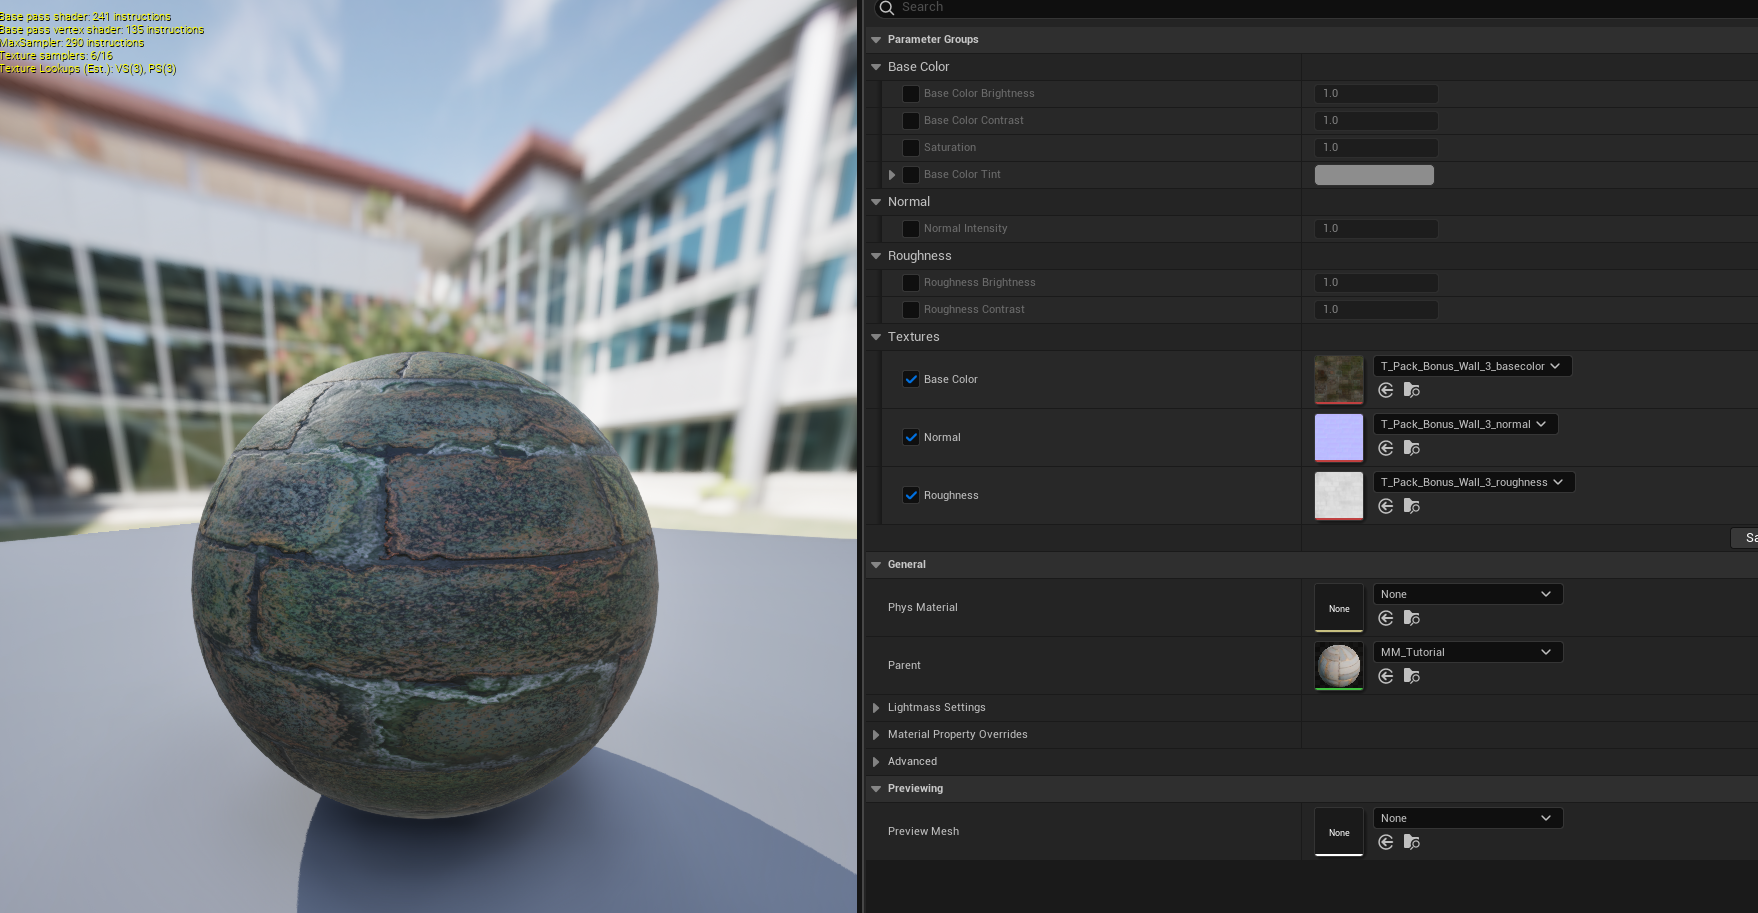
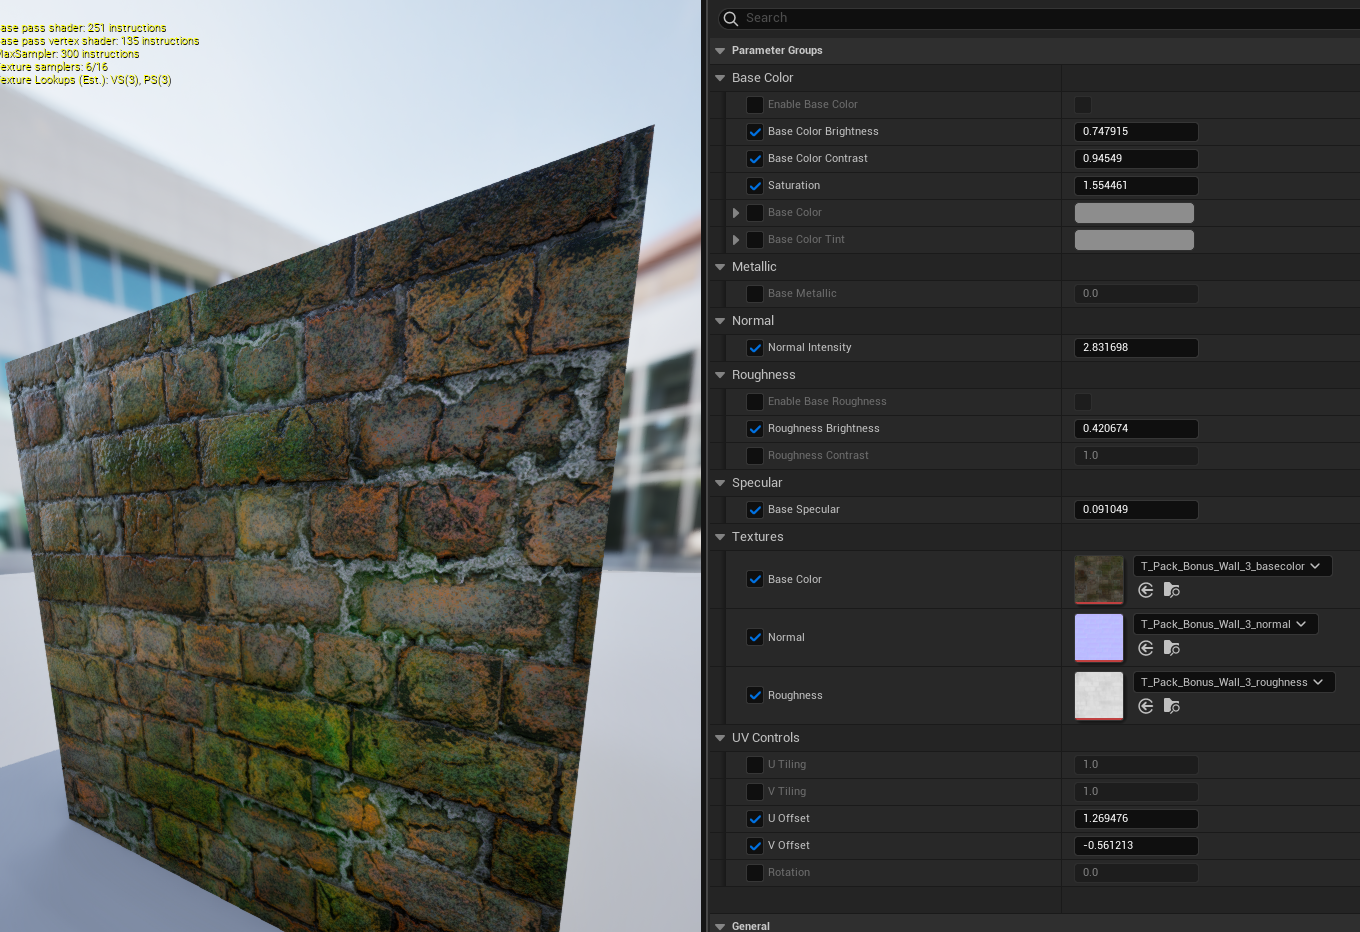
UV controls update

diff --git a/README.md b/README.md
@@ -17,6 +17,10 @@ The material is intended to reflect real-world production workflows, where artis
 - Contrast
 - Saturation
 - Tint
+### Position Controls
+- UV Tiling
+- UV Offset
+- Rotation
 ## Examples
 > ![Base Material Screenshot](images/BaseMaterial.png)
 > ![Base Material Instance](images/BaseMaterialInstance.png)
